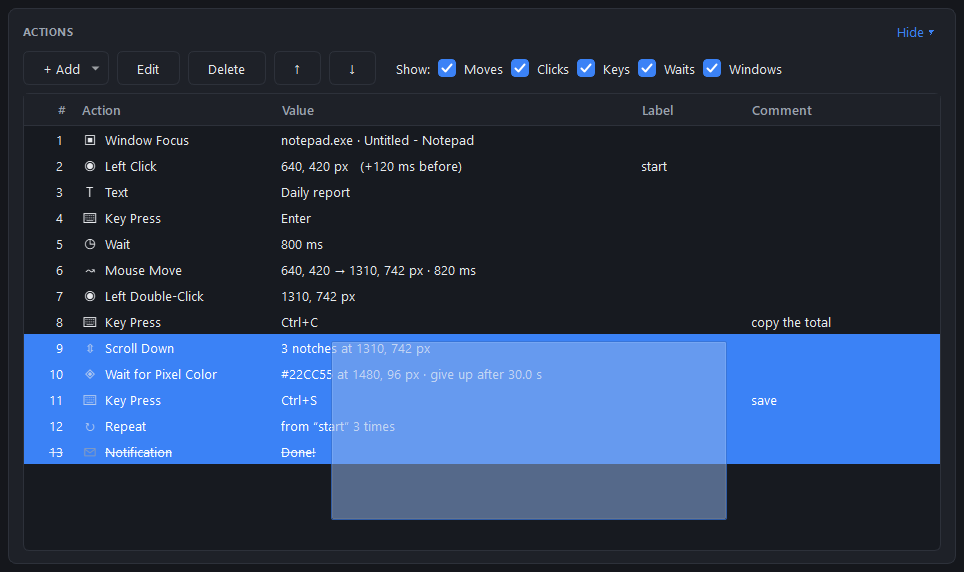
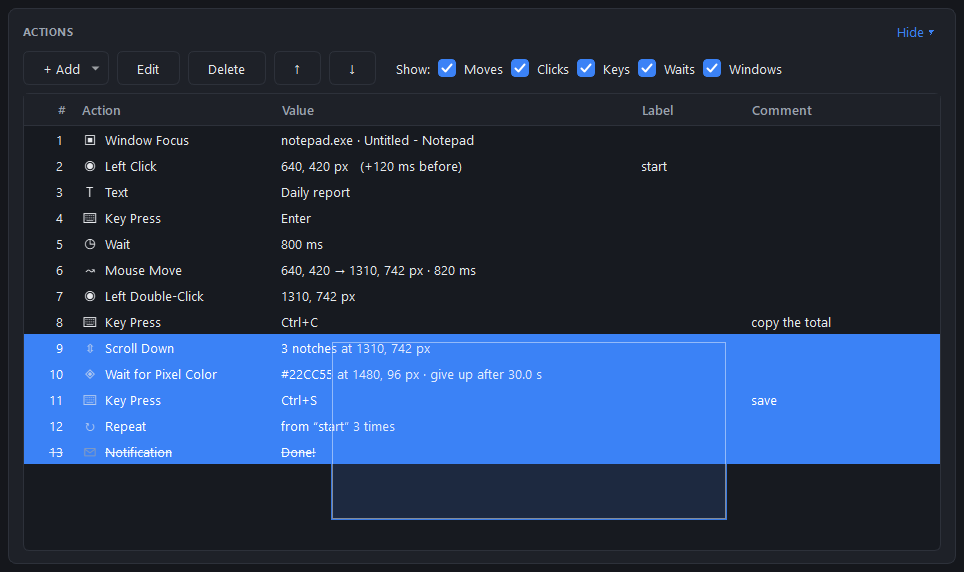
Start Over, drop-down lists below their box, clearer step list highlights
- File > Settings > Start Over: every setting back to its default, Start at Login off, then the app starts again on the welcome window (macros untouched)
- Drop-down lists open below their box in every theme instead of covering it when the last item is chosen
- Step list: hover highlight at 30 %, selection box in the accent at 15 % with an outline that also shows over selected steps
- README: Start Over, pictures redrawn

Changed region(s): [[0.3423, 0.5944, 0.778, 0.9213]]

diff --git a/src/app/MainWindow.cpp b/src/app/MainWindow.cpp
@@ -19,6 +19,7 @@
 #include <QDateTime>
 #include <QDesktopServices>
 #include <QDir>
+#include <QFile>
 #include <QFileDialog>
 #include <QFileInfo>
 #include <QFrame>
@@ -38,6 +39,7 @@
 #include <QLineEdit>
 #include <QPainter>
 #include <QPlainTextEdit>
+#include <QProcess>
 #include <QPushButton>
 #include <QRadioButton>
 #include <QSaveFile>
@@ -304,6 +306,9 @@ void MainWindow::buildMenus()
         m_backend->injector()->setScanCodesOnly(m_s.scanCodes);
         log(QStringLiteral("Settings reset to defaults."));
     });
+    settings->addAction(QStringLiteral("Start Over…"), this, [this] { startOver(); })
+        ->setToolTip(QStringLiteral("Every setting back to its default, as if the app had just been installed. "
+                                    "Your saved macros aren't touched."));
     settings->addSeparator();
     auto toggle = [&](const QString& text, bool on, const QString& tip, std::function<void(bool)> f) {
         QAction* a = settings->addAction(text);
@@ -2391,6 +2396,48 @@ void MainWindow::closeEvent(QCloseEvent* e)
     m_s.geometry = saveGeometry();
     m_s.tableState = m_table->horizontalHeader()->saveState();
     m_saveTimer.stop();
-    m_s.save(appdata::settingsFile());
+    if (!m_startingOver) m_s.save(appdata::settingsFile());
     e->accept();
+}
+
+void MainWindow::startOver()
+{
+    if (m_state != State::Idle || !maybeSave()) return;
+    const bool portable = appdata::usesOverride();
+    QMessageBox box(QMessageBox::Question, QStringLiteral("Start Over"),
+                    QStringLiteral("Start over as if %1 had just been installed?").arg(QStringLiteral(APP_NAME)),
+                    QMessageBox::Yes | QMessageBox::Cancel, this);
+    box.setInformativeText(
+        QStringLiteral("Every setting goes back to its default: the theme and imported themes, the layout, Window Opacity, "
+                       "hotkeys, playback and recording options, and recent files. Start at Login is turned off.\n\n")
+        + (portable ? QStringLiteral("Then %1 starts again with the same app data folder.").arg(QStringLiteral(APP_NAME))
+                    : QStringLiteral("Then %1 starts again and shows the welcome window, which asks where to keep its "
+                                     "settings.").arg(QStringLiteral(APP_NAME)))
+        + QStringLiteral("\n\nYour saved macros aren't touched."));
+    box.button(QMessageBox::Yes)->setText(QStringLiteral("Start Over"));
+    box.setDefaultButton(QMessageBox::Cancel);
+    if (box.exec() != QMessageBox::Yes) return;
+
+    m_saveTimer.stop();
+    QString err;
+    if (m_backend->startsAtLogin() && !m_backend->setStartAtLogin(false, &err))
+        log(QStringLiteral("Start at Login: %1").arg(err));
+    // The new copy registers the hotkeys again; this one lets go of them first.
+    for (int id = HkRecord; id <= HkCapture; ++id) m_backend->setHotkey(id, QKeySequence(), &err);
+    QFile::remove(appdata::settingsFile());
+    appdata::forgetChoice();
+    m_startingOver = true;
+
+    // An AppImage runs from a folder that's gone once it closes: start the AppImage file itself again.
+    const QString appImage = qEnvironmentVariable("APPIMAGE");
+    const QString program = appImage.isEmpty() ? QCoreApplication::applicationFilePath() : appImage;
+    QStringList args;
+    if (portable) args << QStringLiteral("--data-folder") << (appdata::isTemporary() ? QStringLiteral("<none>") : appdata::folder());
+    const bool started = startAgain ? startAgain(program, args) : QProcess::startDetached(program, args);
+    if (!started)
+        QMessageBox::warning(this, QStringLiteral("Start Over"),
+                             QStringLiteral("The settings are reset, but %1 couldn't start again by itself. "
+                                            "Open it again to continue.").arg(QStringLiteral(APP_NAME)));
+    m_dirty = false;   // maybeSave() above already asked
+    close();
 }

diff --git a/src/app/MainWindow.h b/src/app/MainWindow.h
@@ -7,6 +7,8 @@
 #include "core/Recorder.h"
 #include "platform/Backend.h"
 
+#include <functional>
+
 #include <QHash>
 #include <QMainWindow>
 #include <QTimer>
@@ -47,6 +49,9 @@ public:
     // View > Theme > Import Theme…, without the file dialog. Adds the theme, keeps it in the settings and switches
     // to it. False (with the reason in `error`) if the file isn't a usable theme.
     bool importThemeFile(const QString& path, QString* error = nullptr);
+    // File > Settings > Start Over starts the app again with this. Tests replace it so nothing is started; the
+    // default starts the program (the AppImage itself on Linux) detached.
+    inline static std::function<bool(const QString& program, const QStringList& args)> startAgain;
 
 protected:
     bool eventFilter(QObject* watched, QEvent* e) override;
@@ -137,6 +142,7 @@ private:
     void togglePause();
     void registerHotkeys();
     void syncWidgetsFromSettings();   // after Reset settings: show the defaults right away
+    void startOver();                 // every setting back to its default, then the app starts again (welcome window)
     void onHotkey(int id);
     core::PlayOptions playOptions() const;
     core::RecordOptions recordOptions() const;
@@ -160,6 +166,7 @@ private:
     QTimer m_countdown;
     bool m_quitWhenDone = false;
     bool m_hotkeysEnabled = true;
+    bool m_startingOver = false;   // Start Over: closing without saving the settings again
     QString m_recordTo;
     QMessageBox* m_msgBox = nullptr;       // a Message box step waiting for OK
     ActionDialog* m_openDialog = nullptr;  // a step editor that's open (for the Capture position hotkey)

diff --git a/src/app/AppData.cpp b/src/app/AppData.cpp
@@ -25,6 +25,7 @@ namespace {
 const QString kNone = QStringLiteral("<none>");
 QString g_folder;
 QTemporaryDir* g_temp = nullptr;   // deleted (with its contents) when the app exits
+bool g_override = false;           // the folder came from --data-folder
 
 #ifndef Q_OS_WIN
 QString choiceFile()
@@ -137,7 +138,8 @@ void rememberChoice(const QString& folder)
 
 QString resolve(const QString& override, QWidget* parent)
 {
-    if (!override.isEmpty()) return useFolder(override) ? g_folder : QString();
+    g_override = !override.isEmpty();
+    if (g_override) return useFolder(override) ? g_folder : QString();
     QString choice = rememberedChoice();
     if (choice.isEmpty() || (choice != kNone && !QDir(choice).exists() && !QDir().mkpath(choice))) {
         choice = ask(parent, choice, true);
@@ -148,6 +150,18 @@ QString resolve(const QString& override, QWidget* parent)
 }
 
 bool isTemporary() { return g_temp != nullptr; }
+bool usesOverride() { return g_override; }
+
+void forgetChoice()
+{
+    if (g_override) return;
+#ifdef Q_OS_WIN
+    QSettings reg(QStringLiteral("HKEY_CURRENT_USER\\Software\\" APP_ORG "\\" APP_NAME), QSettings::NativeFormat);
+    reg.remove(QStringLiteral("DataFolder"));
+#else
+    QFile::remove(choiceFile());
+#endif
+}
 QString folder() { return g_folder; }
 QString settingsFile() { return QDir(g_folder).filePath(QStringLiteral("settings.json")); }
 

diff --git a/src/app/Look.h b/src/app/Look.h
@@ -4,11 +4,12 @@
 namespace look {
 
 struct Values {
-    double hover = 0.22;         // the row under the pointer: the theme's accent at this opacity
+    double hover = 0.30;         // the row under the pointer: the theme's accent at this opacity
     int hoverOnSelected = 28;    // the same row while selected: white at this alpha (0-255) over the selection
     double previewPanel = 1.0;   // the step preview's background (1 = solid, lower lets the list show through)
-    double bandFill = -1;        // the selection box's fill: the accent at this opacity (below 0: the style's own box)
+    double bandFill = 0.15;      // the selection box's fill: the accent at this opacity (below 0: the style's own box)
     double bandBorder = 0.9;     // the selection box's outline (used when bandFill is 0 or more)
+    double bandInner = 0.45;     // a line just inside the outline in the selection's text color: shows over selected steps
 };
 
 inline Values& values()

diff --git a/src/app/AppData.h b/src/app/AppData.h
@@ -16,6 +16,10 @@ void rememberChoice(const QString& folder);
 // Returns an empty string if the user cancelled the first-run dialog.
 QString resolve(const QString& override, QWidget* parent);
 bool isTemporary();
+bool usesOverride();                        // this run's folder came from --data-folder (portable use, tests)
+// File > Settings > Start Over: forget the folder choice, so the next start asks again (the welcome window).
+// Does nothing while --data-folder is in use: that folder is the caller's choice, not the remembered one.
+void forgetChoice();
 QString settingsFile();                     // <folder>/settings.json
 QString folder();
 // File > Settings > Change app data folder: ask, move settings.json, remember. False if cancelled.

diff --git a/src/app/Themes.cpp b/src/app/Themes.cpp
@@ -79,6 +79,8 @@ QLineEdit, QSpinBox, QComboBox, QKeySequenceEdit QLineEdit {
     background: @input; border: 1px solid @border; border-radius: 6px; padding: 4px 8px; }
 QLineEdit:focus, QSpinBox:focus, QComboBox:focus { border: 1px solid @accent; }
 QLineEdit:disabled, QSpinBox:disabled, QComboBox:disabled { color: @muted; }
+/* Lists open below their box: Fusion puts the chosen item over the box (a "drop up" for the last item). */
+QComboBox { combobox-popup: 0; }
 QComboBox::drop-down { border: none; width: 22px; }
 QComboBox::down-arrow { image: url(@down); width: 12px; height: 12px; }
 QSpinBox::up-arrow { image: url(@up); width: 10px; height: 10px; }

diff --git a/src/app/ActionTable.cpp b/src/app/ActionTable.cpp
@@ -55,6 +55,12 @@ protected:
         p.fillRect(rect(), fill);
         p.setPen(line);
         p.drawRect(rect().adjusted(0, 0, -1, -1));
+        // Over steps that are already selected the accent edge disappears into the selection: a faint line in the
+        // selection's text color just inside it keeps the box's edge visible there too
+        QColor inner = palette().color(QPalette::HighlightedText);
+        inner.setAlphaF(v.bandInner);
+        p.setPen(inner);
+        if (width() > 4 && height() > 4) p.drawRect(rect().adjusted(1, 1, -2, -2));
     }
 };
 

diff --git a/README.md b/README.md
@@ -41,7 +41,9 @@ On Linux, see [Linux (experimental)](#linux-experimental).
 The app asks where to keep its settings. It suggests the usual place for app data (`%LOCALAPPDATA%\MacroRecorder`
 on Windows, `~/.local/share/MacroRecorder` on Linux); pick any folder, or choose **Don't Keep App Data** to start
 fresh every time. While that choice is on, a **Settings Not Kept** link shows at the top of the window; click it to pick a
-folder. You can change this at any time in **File ▸ Settings ▸ Change App Data Folder…**.
+folder. You can change this at any time in **File ▸ Settings ▸ Change App Data Folder…**. To go back to how the
+app was when first installed, use **File ▸ Settings ▸ Start Over…**: every setting returns to its default and this
+window shows again.
 
 Your macros are saved wherever you choose when you save them.
 
@@ -260,7 +262,8 @@ played.
 - **File**: New, Open, Open Recent, Save, Save As, Export to CSV (separated the way your region's spreadsheets
   expect: commas in the US, semicolons in most of Europe), Copy Command Line (plays the saved macro and
   closes; for a shortcut or Windows Task Scheduler), Settings, Quit.
-  - **Settings**: Change App Data Folder, Reset Settings to Defaults, Confirm Before Deleting Steps, Start
+  - **Settings**: Change App Data Folder, Reset Settings to Defaults, Start Over (every setting back to its
+    default, then the app restarts on the welcome window; your saved macros aren't touched), Confirm Before Deleting Steps, Start
     Minimized, Start at Login, and on Windows: Send Keys as Scan Codes (for games that ignore normal key presses),
     Restart as Administrator (needed to control programs running as administrator).
 - **Macro**: Record, Record After Selected Step, New Recording, Play, Play Selection, Play From Selected Step,
